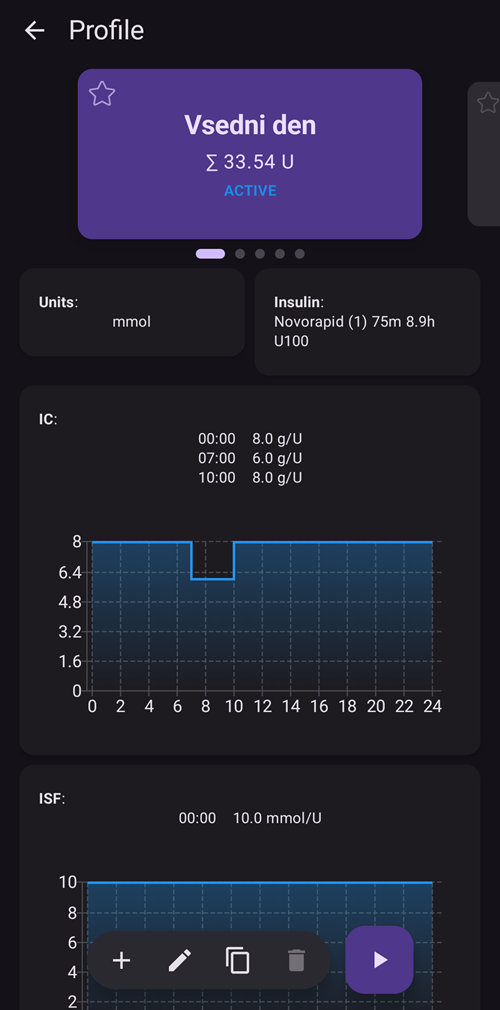
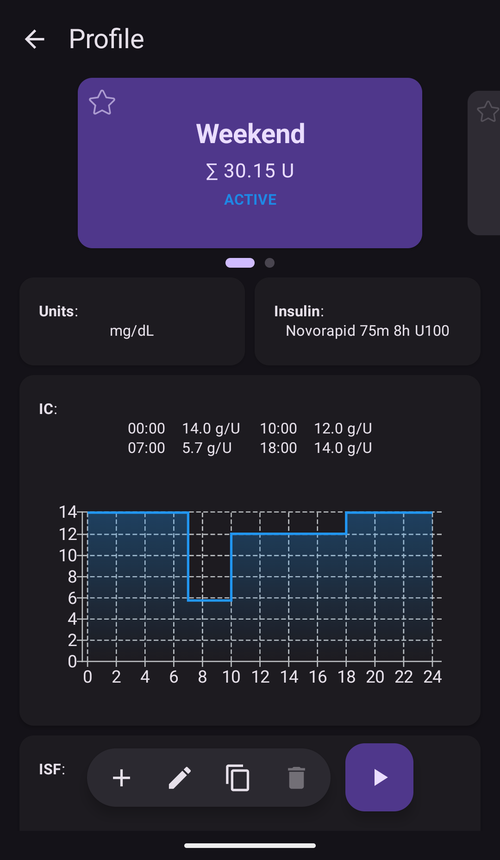
Update profile switch

diff --git a/docs/EN/DailyLifeWithAaps/ProfileSwitch-ProfilePercentage.md b/docs/EN/DailyLifeWithAaps/ProfileSwitch-ProfilePercentage.md
@@ -17,7 +17,7 @@ Why use a  **Profile Percentage** rather than a temporary basal adjustment?  To 
 
 In **AAPS** v4 profiles are managed and activated from the **Manage** screen (bottom navigation) → **Profile** (*“Manage and activate profiles”*).
 
-The Profile screen shows your profiles as a **swipeable card carousel**. The card of the running profile is marked **ACTIVE** and shows its total daily basal (e.g. *∑ 33.54 U*). Below the selected card you see that profile's details — **Units**, **Insulin** type, and the **IC**, **ISF**, **basal** and **target** schedules with graphs.
+The Profile screen shows your profiles as a **swipeable card carousel**. The card of the running profile is marked **ACTIVE** and shows its total daily basal (e.g. *∑ 30.15 U*). Below the selected card you see that profile's details — **Units**, **Insulin** type, and the **IC**, **ISF**, **basal** and **target** schedules with graphs.
 
 ![The Profile screen — profile carousel, details and action bar](../images/v4/Profiles/profile_manage.png)
 
@@ -47,45 +47,23 @@ A profile switch is not limited to this screen. The same switch can also be trig
 
 ## How to activate a Profile Switch?
 
-Each **Profile** once selected by the user will require a “Profile Switch”. To do this, the user should edit their **Profile** or set up a new **Profile** within the “Local Profile” tab. Once the desired settings have been applied, the user should save their changes and activate the **Profile** by selecting ‘Activate Profile’ as shown below:
+In order to use this feature the user must have at least one **Profile** saved within **AAPS**. The quickest way to the **Profile** screen is to tap the **profile name** at the top of the main screen:
 
-![BB1_Screenshot 2024-06-22 234905](../images/ProfileSwitch1.png)
+![The profile name on the main screen opens the Profile screen](../images/ProfileSwitch2.png)
 
-Once a new **Profile** has been created and saved, **AAPS** will maintain a library of the user’s **Profiles** as generated by the user.
+Then, on the [Profile screen](#ProfileSwitch-manage-v4):
 
-## How to activate a Profile Switch?
+1. **swipe** to the desired **Profile** card;
+2. tap the **▶ Activate** button;
+3. adjust **Percentage**, **Duration** and **Time shift** if needed (see below); and
+4. tap **Activate** and confirm.
 
-A. In order use this feature the user must have more than one **Profile** saved within **AAPS**. To activate a **Profile Switch**:
+The same screen is also reachable via **Manage** → **Profile**.
 
-- __long-press__ on the name of the **Profile** (the example below adopts a ‘Profile’ saved as: “School” on **AAPS’** homescreen and selects the desired **Profile**  from the drop down tab:
+To activate a **Profile Percentage**, set the **Percentage** field in the same dialog before confirming. For the **Duration** field, note:
 
-1. Long press **Profile**;
-2. Select desired **Profile**; and
-3. then press ‘ok’.
-
-![BB2_Screenshot 2024-06-22 235345](../images/ProfileSwitch2.png)
-
-![BB3_Screenshot 2024-06-22 235456](../images/ProfileSwitch3.png)
-
-
-## To activate a Profile Percentage within Profile Switch:
-
-B. To activate a **Profile Percentage**:
-- Follow the steps at A above.
-- Adjust the fields for ‘Duration’ and ‘Percentage’ as required but noting the following. 
-  If the ‘Duration’ field (in as shown in icon 2 below) is:
-  * left ‘zero’, this will remain active in the **Profile** for an infinite amount of time. The **Profile** will remain active until the new “Profile switch” is selected and switched by the user.
-  * entered with the number of [x] minutes this will be the desired time period for the **Profile**.  Upon expiry of the selected time frame, the standard **Profile** will revert into **AAPS**.
-
-![BB4_Screenshot 2024-06-23 000029](../images/ProfileSwitch4.png)
-
-How to action a **Profile** ‘Percentage’:
-
-2. Enter ‘Duration’ field.
-
-3. Enter ‘Percentage’ field.
-
-4. Enter ‘Time Shift’.
+* left at ‘zero’, the switch remains active for an infinite amount of time — the **Profile** stays active until a new “Profile switch” is made by the user;
+* entered with a number of [x] minutes, the switch lasts for that time period. Upon expiry of the selected time frame, the previous **Profile** reverts in **AAPS**.
 
 ## Profile Percentage
 

diff --git a/docs/EN/SettingUpAaps/CompletingTheObjectives.md b/docs/EN/SettingUpAaps/CompletingTheObjectives.md
@@ -51,7 +51,7 @@ Each task shows its status (**1**): the orange "**Not completed yet**" turns int
 
 Tasks to complete **Objective 2** are:
 - Set your **Profile** to 90% for a duration of 10 min.
-  - _Hint_: Long-press your Profile name on the main screen to open the **Profile** screen, then use the **Activate** (▶) button and set percentage and duration. More information in [Profile switch & Profile Percentage](../DailyLifeWithAaps/ProfileSwitch-ProfilePercentage.md).
+  - _Hint_: Tap your Profile name on the main screen to open the **Profile** screen, then use the **Activate** (▶) button and set percentage and duration. More information in [Profile switch & Profile Percentage](../DailyLifeWithAaps/ProfileSwitch-ProfilePercentage.md).
   - _Note_: **AAPS** does not accept basal rates below 0.05U/hr. If your **Profile** includes rates 0.06U/hr or lower you will need to create a temporary **Profile** with higher basal rates before completing this task. Switch back to your normal **Profile** after completing this task.
 - Simulate "taking a shower" by [disconnecting your pump](#AapsScreens-section-c-bg-loop-status) in **AAPS** for a duration of 1h.
   - _Hint_: press the loop icon on the main screen to open the Loop dialog, then choose a duration under **Disconnect pump**.

diff --git a/docs/EN/DailyLifeWithAaps/AapsScreens.md b/docs/EN/DailyLifeWithAaps/AapsScreens.md
@@ -117,7 +117,7 @@ Up to 30h hours are taken into accord for **AAPS** calculations. So even after y
 
 The current profile is displayed next to the star icon.
 
-Short press the profile name to view profile details. Long press the profile name to open the [Profile screen](#aaps-screens-profile), where you can [switch between different profiles](../DailyLifeWithAaps/ProfileSwitch-ProfilePercentage.md).
+Tap the profile name to open the [Profile screen](#aaps-screens-profile), where you can view the profile details and [switch between different profiles](../DailyLifeWithAaps/ProfileSwitch-ProfilePercentage.md).
 
 ![Profile with an active profile switch](../images/Home2020_ProfileSwitch.png)
 
